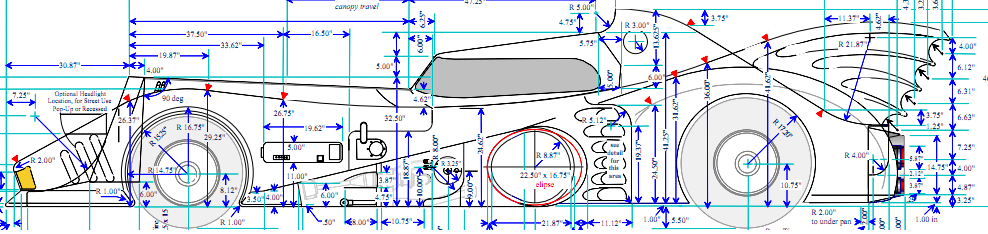
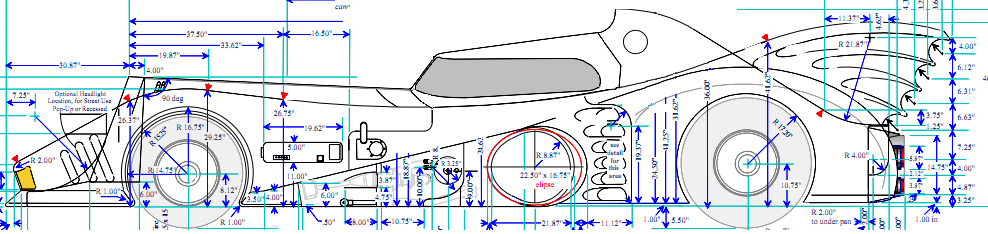
added canopy

diff --git a/app/doors.htm b/app/doors.htm
@@ -19,9 +19,10 @@
 		<div data-bb-type="panel-header">Canopy</div>
 		<div style="margin:3px;">
 		   <p>Press and hold the desired button until the canopy is fully opened or closed</p>
-		   <div data-bb-type="button" data-bb-style="stretch" >Open</div>
+		   <p style="text-align:center;"><img id="canopy" src="images/canopy-closed.png"/></p>
+		   <div data-bb-type="button" data-bb-style="stretch" onclick="document.getElementById('canopy').src = 'images/canopy-opened.png'" >Open</div>
 		   <div style="height:10px;"></div>
-		   <div data-bb-type="button" data-bb-style="stretch" >Close</div>
+		   <div data-bb-type="button" data-bb-style="stretch" onclick="document.getElementById('canopy').src = 'images/canopy-closed.png'" >Close</div>
 	   </div>
 	</div>
 

diff --git a/app/lighting.htm b/app/lighting.htm
@@ -34,5 +34,6 @@
 		   <div data-bb-type="button" data-bb-style="stretch"  onclick="document.getElementById('headlights').src = 'images/headlights-off.png'" >OFF</div>
 	   </div>
 	</div>
+	<div style="height:40px"></div>
 </div>
 
